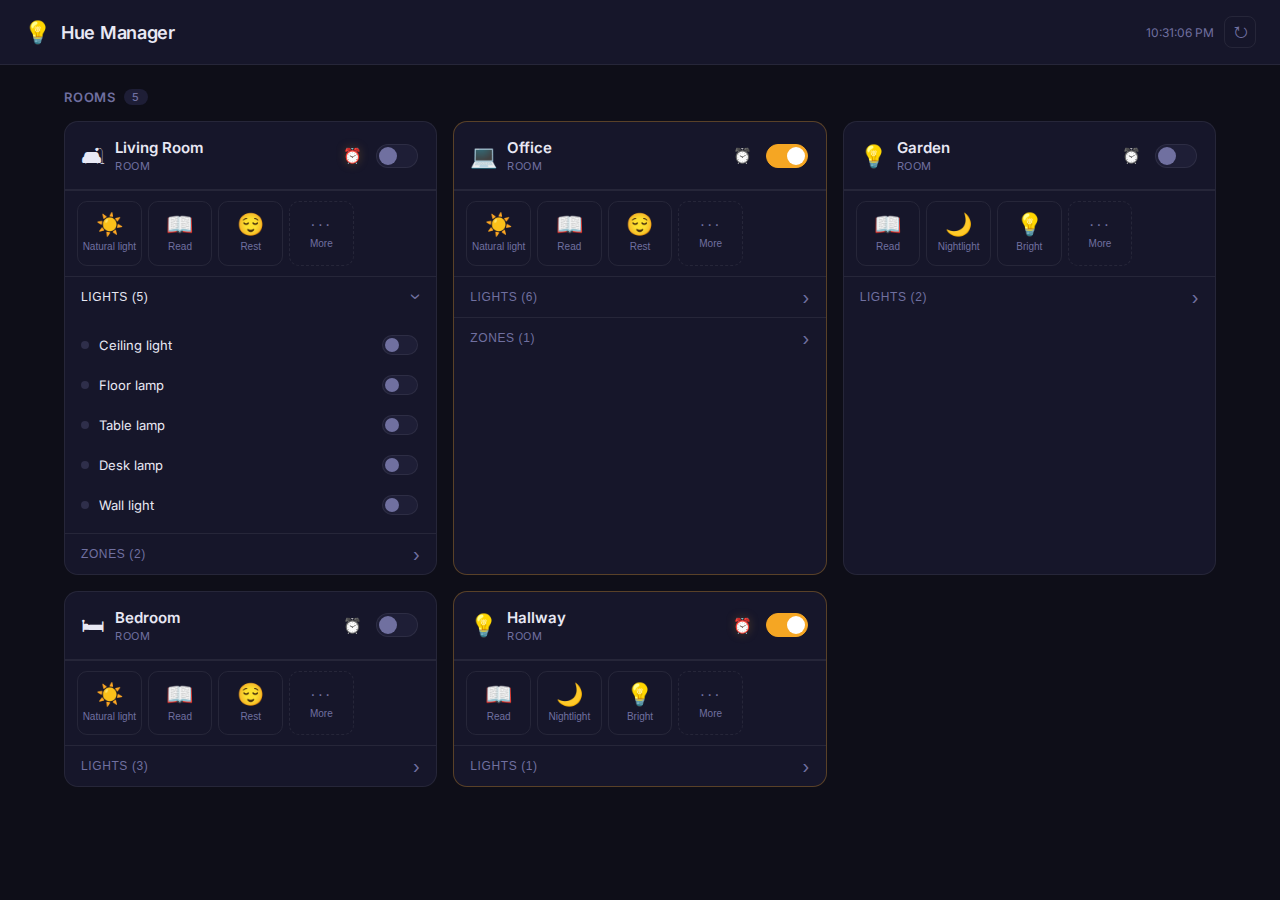
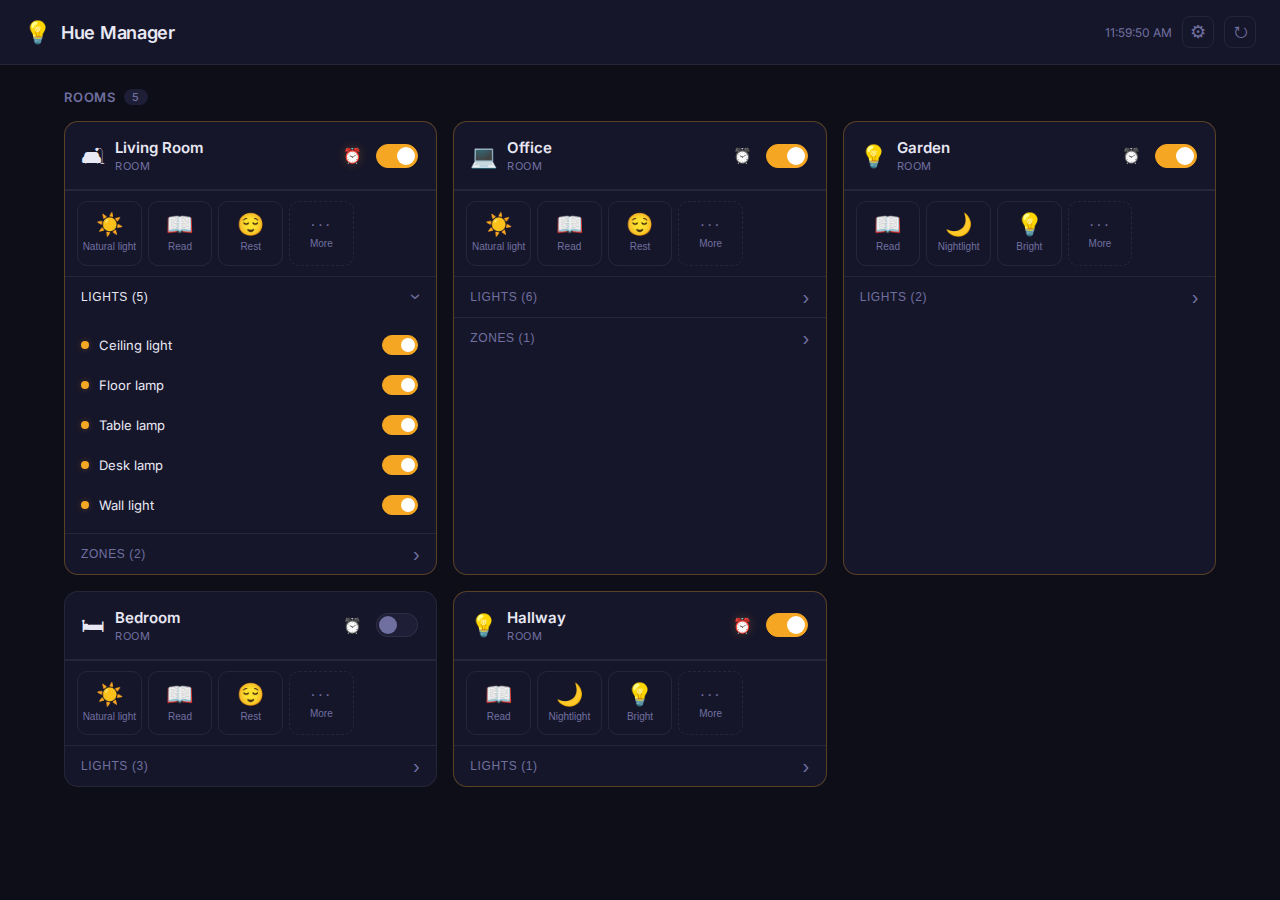
feat: updated screenshots and readme

diff --git a/README.md b/README.md
@@ -103,6 +103,8 @@ Schedules are persisted to `data/schedules.json` and evaluated server-side every
 
 ### Authentication
 
+![Login screen](docs/screenshots/login.png)
+
 Every `/api/*` route requires HTTP Basic Auth, checked against the
 comma-separated `username:password` pairs in `AUTH_USERS`
 (e.g. `AUTH_USERS=alice:secret1,bob:secret2`). If `AUTH_USERS` is unset, the
@@ -110,6 +112,8 @@ API rejects every request (a warning is logged on startup) — set it in
 `.env` before starting the server.
 
 ### Setup screen
+
+![Setup screen](docs/screenshots/setup.png)
 
 If `HUE_USER` is missing from `.env`, the UI shows a "Bridge not configured" screen with setup instructions. If the token is present but rejected by the bridge, it shows an "Unauthorized" screen instead of silently showing an empty room list.
 
